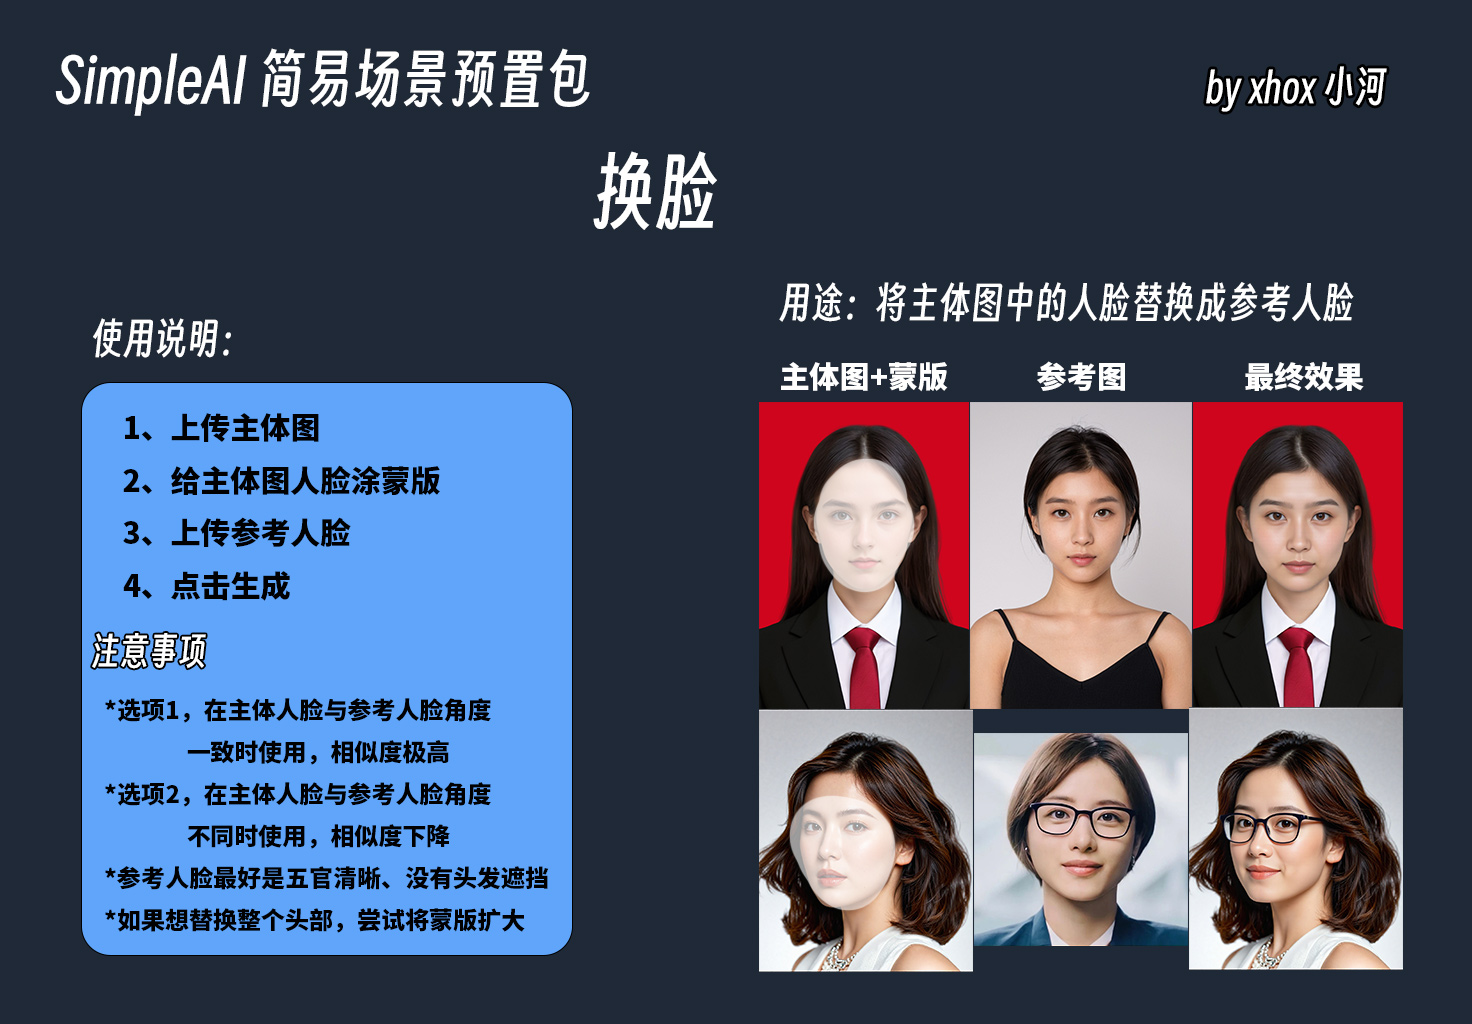
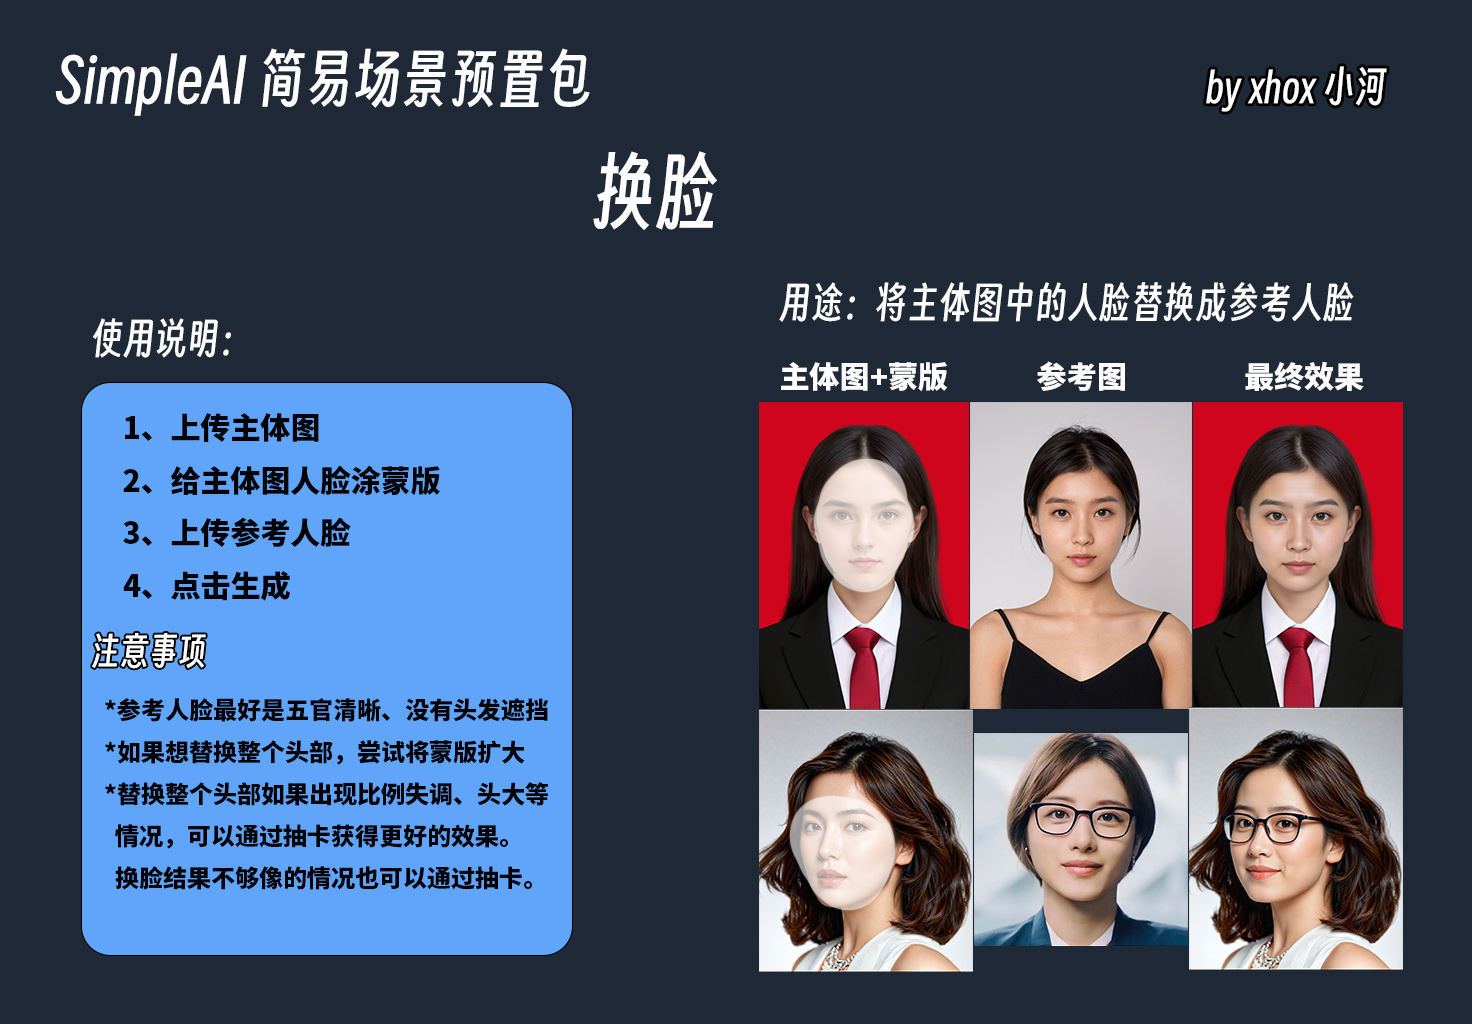
add scence mask color,change welcome image

Changed region(s): [[0.0625, 0.6562, 0.375, 0.9062]]

diff --git a/webui.py b/webui.py
@@ -255,12 +255,16 @@ with shared.gradio_root:
                         with gr.Row():
                             scene_additional_prompt = gr.Textbox(label="Blessing words", show_label=True, max_lines=1, elem_classes='scene_input')
                             scene_theme = gr.Radio(choices=modules.flags.scene_themes, label="Themes", value=modules.flags.scene_themes[0])
-                        scene_canvas_image = grh.Image(label='Upload and canvas', show_label=True, source='upload', type='numpy', tool='sketch', height=250, brush_color="#FFFFFF", elem_id='scene_canvas')
+                        scene_canvas_image = grh.Image(label='Upload and canvas', show_label=True, source='upload', type='numpy', tool='sketch', height=250, brush_color="#70FF81", elem_id='scene_canvas')
                         scene_input_image1 = grh.Image(label='Upload prompt image', value=None, source='upload', type='numpy', show_label=True, height=300, show_download_button=False)
                         scene_additional_prompt_2 = gr.Textbox(label="Blessing words", show_label=True, max_lines=1, visible=False, elem_classes='scene_input_2')
                         scene_aspect_ratio = gr.Radio(choices=modules.flags.scene_aspect_ratios[:3], label="Aspect Ratios", value=modules.flags.scene_aspect_ratios[0], elem_classes=['scene_aspect_ratio_selections'])
                         scene_image_number = gr.Slider(label='Image Number', minimum=1, maximum=5, step=1, value=2)
-
+                        scene_mask_color = gr.ColorPicker(label="Scene brush color", value="#70FF81", elem_id="scene_brush_color")
+                        scene_mask_color.change(lambda x: gr.update(brush_color=x),inputs=scene_mask_color,
+                            outputs=scene_canvas_image,
+                            queue=False,show_progress=False)
+                        
                 progress_html = gr.HTML(value=modules.html.make_progress_html(32, 'Progress 32%'), visible=False,
                                     elem_id='progress-bar', elem_classes='progress-bar')
                 prompt_info_box = gr.Markdown(toolbox.make_infobox_markdown(None, args_manager.args.theme), visible=False, elem_id='infobox', elem_classes='infobox')
